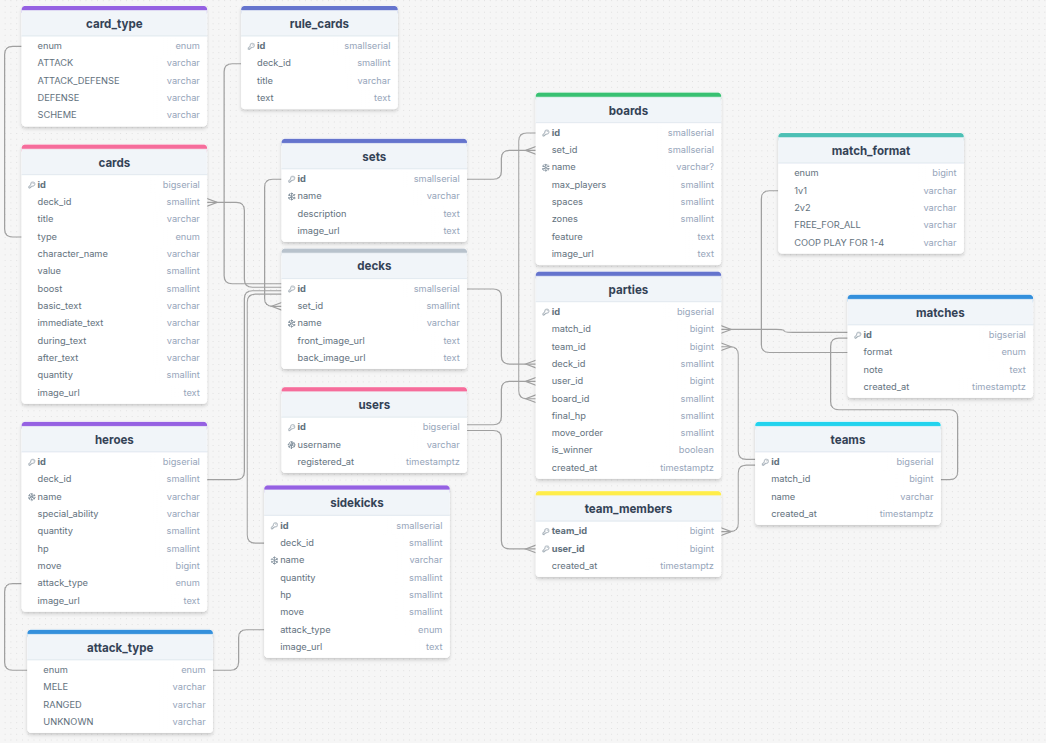
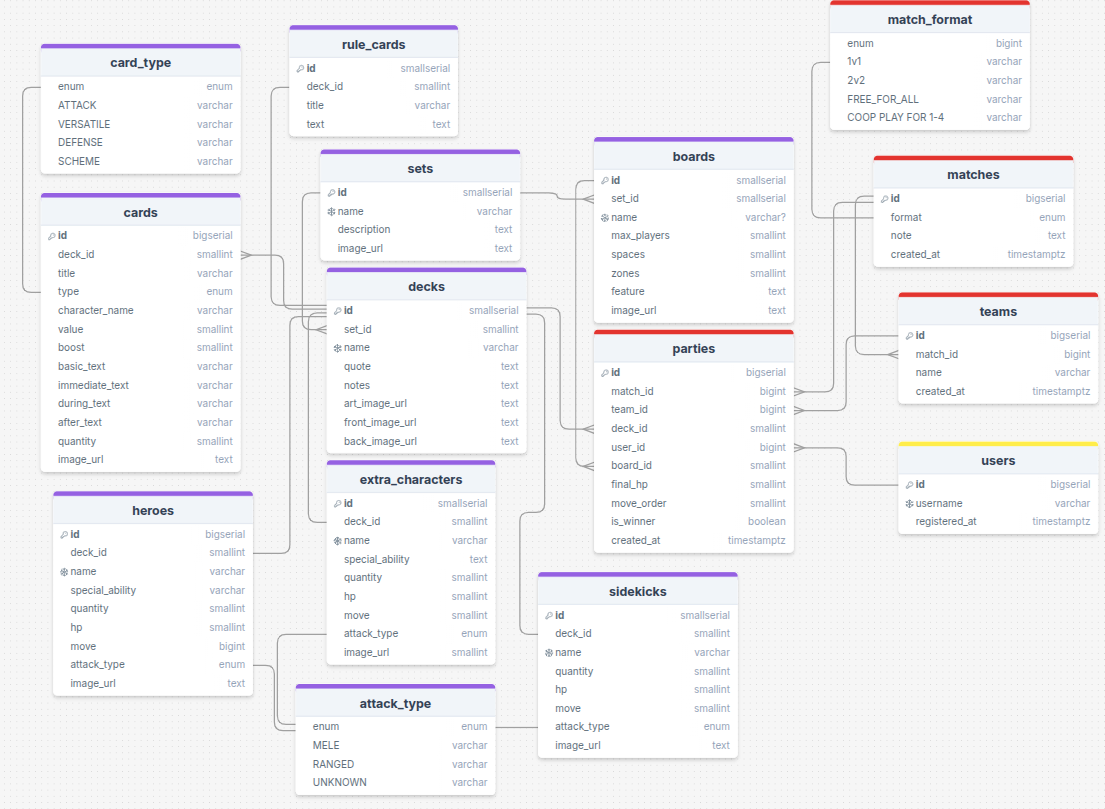
improve database
- remove unnecessary table (and entity): team member
- add fields to deck (table and entity)

diff --git a/frontend/unmatched-frontend/src/types/deck.ts b/frontend/unmatched-frontend/src/types/deck.ts
@@ -23,9 +23,11 @@ export interface DeckRatingDto {
 export interface DeckDto {
     setName: string;
     name: string;
+    notes: string;
+    quote: string;
+    artImageUrl: string;
     frontImageUrl: string;
     backImageUrl: string;
-    notes: string;
     hero: HeroDto;
     sidekick: SidekickDto;
     cards: CardDto[];

diff --git a/backend/services/unmatched-backend-core/src/main/java/com/radiuk/unmatched_backend_core/service/PartyService.java b/backend/services/unmatched-backend-core/src/main/java/com/radiuk/unmatched_backend_core/service/PartyService.java
@@ -4,7 +4,6 @@ import com.radiuk.unmatched_backend_core.dto.PartyDto;
 import com.radiuk.unmatched_backend_core.dto.TeamDto;
 import com.radiuk.unmatched_backend_core.dto.UserPartyDto;
 import com.radiuk.unmatched_backend_core.model.*;
-import com.radiuk.unmatched_backend_core.model.id.TeamMemberId;
 import com.radiuk.unmatched_backend_core.repository.*;
 import jakarta.persistence.EntityNotFoundException;
 import lombok.RequiredArgsConstructor;
@@ -22,7 +21,6 @@ public class PartyService {
     private final MatchRepository matchRepository;
     private final UserRepository userRepository;
     private final TeamRepository teamRepository;
-    private final TeamMemberRepository teamMemberRepository;
     private final DeckRepository deckRepository;
     private final BoardRepository boardRepository;
     private final DeckCacheService deckCacheService;
@@ -70,13 +68,6 @@ public class PartyService {
             User user = userRepository.findByUsername(userPartyDto.getUsername()).orElseThrow(() -> new EntityNotFoundException("User with name " + userPartyDto.getUsername() + " not found!"));
             Deck deck = deckRepository.findByName(userPartyDto.getDeck()).orElseThrow(() -> new EntityNotFoundException("Deck with name " + userPartyDto.getDeck() + " not found!"));
             Team team = teamMap.get(getUserTeamName(userPartyDto, partyDto));
-
-            TeamMember teamMember = new TeamMember();
-            teamMember.setId(new TeamMemberId(team.getId(), user.getId()));
-            teamMember.setTeam(team);
-            teamMember.setUser(user);
-            teamMember.setCreatedAt(date);
-            teamMemberRepository.save(teamMember);
 
             partyRepository.save(
                     Party.builder()

diff --git a/backend/services/unmatched-backend-core/src/main/java/com/radiuk/unmatched_backend_core/model/Team.java b/backend/services/unmatched-backend-core/src/main/java/com/radiuk/unmatched_backend_core/model/Team.java
@@ -5,9 +5,7 @@ import lombok.*;
 
 import java.time.OffsetDateTime;
 import java.util.ArrayList;
-import java.util.HashSet;
 import java.util.List;
-import java.util.Set;
 
 @Getter
 @Setter
@@ -29,9 +27,6 @@ public class Team {
     @ManyToOne(fetch = FetchType.LAZY, optional = false)
     @JoinColumn(name = "match_id")
     private Match match;
-
-    @OneToMany(mappedBy = "team")
-    private Set<TeamMember> members = new HashSet<>();
 
     @OneToMany(mappedBy = "team")
     private List<Party> parties = new ArrayList<>();

diff --git a/backend/services/unmatched-backend-core/src/main/java/com/radiuk/unmatched_backend_core/model/Deck.java b/backend/services/unmatched-backend-core/src/main/java/com/radiuk/unmatched_backend_core/model/Deck.java
@@ -15,7 +15,6 @@ import java.util.HashSet;
 public class Deck {
     @Id
     @GeneratedValue(strategy = GenerationType.IDENTITY)
-    @Column(name = "id")
     private Short id;
 
     @ManyToOne(fetch = FetchType.LAZY)
@@ -25,6 +24,11 @@ public class Deck {
     private String name;
 
     private String notes;
+
+    private String quote;
+
+    @Column(name = "art_image_url")
+    private String artImageUrl;
 
     @Column(name = "front_image_url")
     private String frontImageUrl;

diff --git a/backend/services/unmatched-backend-core/src/main/java/com/radiuk/unmatched_backend_core/dto/DeckDto.java b/backend/services/unmatched-backend-core/src/main/java/com/radiuk/unmatched_backend_core/dto/DeckDto.java
@@ -15,11 +15,15 @@ public class DeckDto {
 
     private String name;
 
+    private String notes;
+
+    private String quote;
+
+    private String artImageUrl;
+
     private String frontImageUrl;
 
     private String backImageUrl;
-
-    private String notes;
 
     private HeroDto hero;
 

diff --git a/backend/services/unmatched-backend-core/src/main/java/com/radiuk/unmatched_backend_core/model/User.java b/backend/services/unmatched-backend-core/src/main/java/com/radiuk/unmatched_backend_core/model/User.java
@@ -27,7 +27,4 @@ public class User {
     @OneToMany(mappedBy = "user")
     private List<Party> parties = new ArrayList<>();
 
-    @OneToMany(mappedBy = "user")
-    private List<TeamMember> teamMembers = new ArrayList<>();
-
 }
